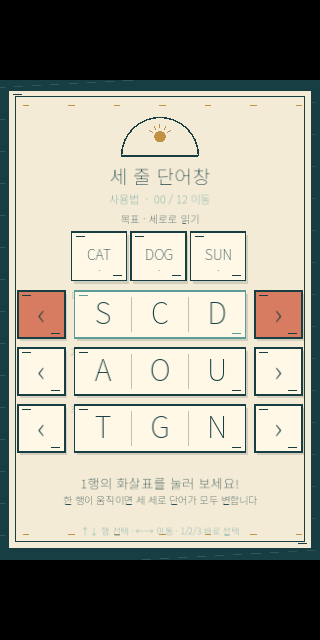
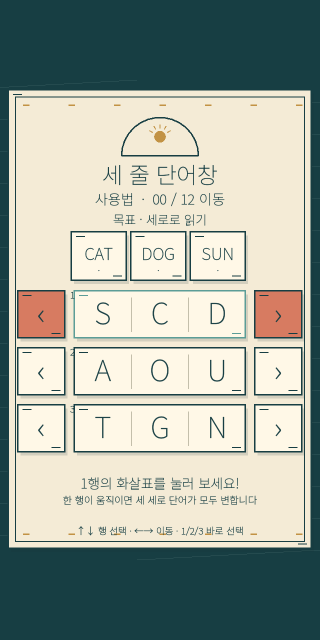
Improve narrow-screen legibility and ink-colored canvas framing

diff --git a/docs/index.html b/docs/index.html
@@ -13,13 +13,19 @@ html, body, #canvas {
 
 body {
 	color: white;
-	background-color: black;
+	background-color: #173e43;
 	overflow: hidden;
 	touch-action: none;
+	min-height: 100dvh;
+	display: flex;
+	align-items: center;
+	justify-content: center;
 }
 
 #canvas {
 	display: block;
+	width: min(100vw, 66.667dvh) !important;
+	height: min(150vw, 100dvh) !important;
 }
 
 #canvas:focus {
@@ -111,7 +117,7 @@ body {
 
 		<script src="index.js"></script>
 		<script>
-const GODOT_CONFIG = {"args":[],"canvasResizePolicy":2,"emscriptenPoolSize":8,"ensureCrossOriginIsolationHeaders":true,"executable":"index","experimentalVK":false,"fileSizes":{"index.pck":6747288,"index.wasm":39514754},"focusCanvas":true,"gdextensionLibs":[],"godotPoolSize":4};
+const GODOT_CONFIG = {"args":[],"canvasResizePolicy":1,"emscriptenPoolSize":8,"ensureCrossOriginIsolationHeaders":true,"executable":"index","experimentalVK":false,"fileSizes":{"index.pck":6747432,"index.wasm":39514754},"focusCanvas":true,"gdextensionLibs":[],"godotPoolSize":4};
 const GODOT_THREADS_ENABLED = false;
 const engine = new Engine(GODOT_CONFIG);
 

diff --git a/scripts/post-export.js b/scripts/post-export.js
@@ -1,0 +1,16 @@
+// Keep the exported Godot canvas at its native 2:3 ratio while coloring the unused viewport.
+const fs = require('node:fs');
+const path = require('node:path');
+const target = path.join(__dirname, '..', 'docs', 'index.html');
+let html = fs.readFileSync(target, 'utf8');
+function replaceOnce(from, to) {
+  const count = html.split(from).length - 1;
+  if (count !== 1) throw new Error(`Expected one export marker, found ${count}: ${from}`);
+  html = html.replace(from, to);
+}
+replaceOnce('background-color: black;', 'background-color: #173e43;');
+replaceOnce('touch-action: none;\n}', 'touch-action: none;\n\tmin-height: 100dvh;\n\tdisplay: flex;\n\talign-items: center;\n\tjustify-content: center;\n}');
+replaceOnce('#canvas {\n\tdisplay: block;\n}', '#canvas {\n\tdisplay: block;\n\twidth: min(100vw, 66.667dvh) !important;\n\theight: min(150vw, 100dvh) !important;\n}');
+replaceOnce('"canvasResizePolicy":2', '"canvasResizePolicy":1');
+fs.writeFileSync(target, html);
+console.log('Post-export canvas shell applied:', target);

diff --git a/TESTS.md b/TESTS.md
@@ -7,3 +7,8 @@
 - Chrome/Playwright actual WebAssembly/WebGL run at 640×960 and 320×640: title, tutorial, active board, success, failure captured in `qa/`; no JS page/console errors. Desktop keyboard and mobile touch both solved L1 and reached L2 12-move failure. Mobile touch emulation was disabled after testing found duplicate mouse/touch events; retest confirmed active board and success.
 - 320px layout: 640×960 design letterboxed to 320×480 within 320×640; arrow targets are 100×94 design units (50×47 CSS px), action buttons wider. Text/UI and overlays inspected; small captions are compact but not clipped. Physical device not tested.
 - Manual screenshot review confirmed all named states; no error overlay or missing Korean glyph in inspected screens. `qa/` contains local image evidence. The public URL was also exercised in Chrome desktop/mobile emulation through all five screen types with zero page/console errors, and its six Web assets matched local bytes by SHA-256.
+
+## Accessibility correction — 2026-11-23
+- Re-ran Godot 4.7.2 editor import, model suite (24 assertions/0 failures), font suite (28 strings/0 missing glyphs), Web export and `node scripts/post-export.js`: all passed.
+- Chrome/Playwright local export at 320×640 and 1280×800: title, tutorial, play, five-level success, and 12-move failure captured in refreshed `qa/` screenshots; zero page/console errors. Mobile touch taps advanced title → tutorial → play → level clear; separate touch screenshots inspected. Row arrows remain 94×94 design units (47×47 CSS px at 320px), within the existing ~50px targets.
+- Screenshot inspection: title/status/target/current/move counter are darker and larger; no clipping/overlap in the ten named states. Web shell centers an exact 2:3 canvas (320×480 at 320×640, 533×800 at 1280×800) and paints unused viewport in the same ink color rather than black. Physical device not tested.

diff --git a/DEPLOY.md b/DEPLOY.md
@@ -3,3 +3,5 @@
 Target: new public `boss489/three-row-word-window-20261123` repository; GitHub Pages from `main/docs` with `.nojekyll`. Generated Godot Web output is `docs/index.html`, `index.js`, `index.wasm`, `index.pck`, and worklet/icon assets. Build: `godot --headless --path . --export-release Web docs/index.html`.
 
 Published at https://boss489.github.io/three-row-word-window-20261123/ from the new public repository https://github.com/boss489/three-row-word-window-20261123/. Initial game commit `84d1bbe1f1dc8ccc1342f8aa21c82b1e52c17953` was verified against remote `main`, and GitHub Pages latest build reported `built` for that SHA. Public HTTP returned 200 and SHA-256 byte-for-byte matches for `index.html`, `index.js`, `index.wasm`, `index.pck`, and both audio worklets. Real Chrome opened the **public** URL and captured title, tutorial, playable board, success, and failure at desktop and 320px mobile emulation, with zero page/console errors. The final documentation commit SHA is separately verified after push; no game/export bytes are altered by it.
+
+Accessibility correction build order: run `godot --headless --editor --path . --quit`, model/font tests, `godot --headless --path . --export-release Web docs/index.html`, then **always** `node scripts/post-export.js`. Godot overwrites `docs/index.html` on export; this guarded script restores the ink-colored letterbox and aspect-locked canvas shell while preserving generated pack size metadata. Publish from `main/docs` only after both commands and browser checks pass.

diff --git a/PROGRESS.md b/PROGRESS.md
@@ -1,3 +1,5 @@
 # Game progress
 
 2026-11-23: Independent five-level Godot 4.7.2 puzzle created. Core row/column model and 12-move adjudication pass 24 headless assertions. Bundled licensed Noto Sans KR glyph-tested. Letterpress UI, synthesized sounds, title/tutorial/play/restart/clear/fail screens, persistent unlock/best/mute implemented. Real Chrome Web export inspected at desktop and 320px; keyboard and touch paths reach success and failure. Public Pages deployment built and live bytes/browser verified; final documentation push and build status verified separately.
+
+2026-11-23 accessibility pass: Enlarged and darkened board title, move/status line, goal caption/words, current words and minor row/help labels; applied 1-unit ink text outline. Kept 94-unit row arrows and game mechanics unchanged. Export shell now centers aspect-locked canvas against ink background, eliminating black bands without cropping. Re-ran import/model/font/export and local desktop/mobile full-state browser flows; refreshed `qa/`. See `TESTS.md` for evidence and `DEPLOY.md` for mandatory post-export step.
